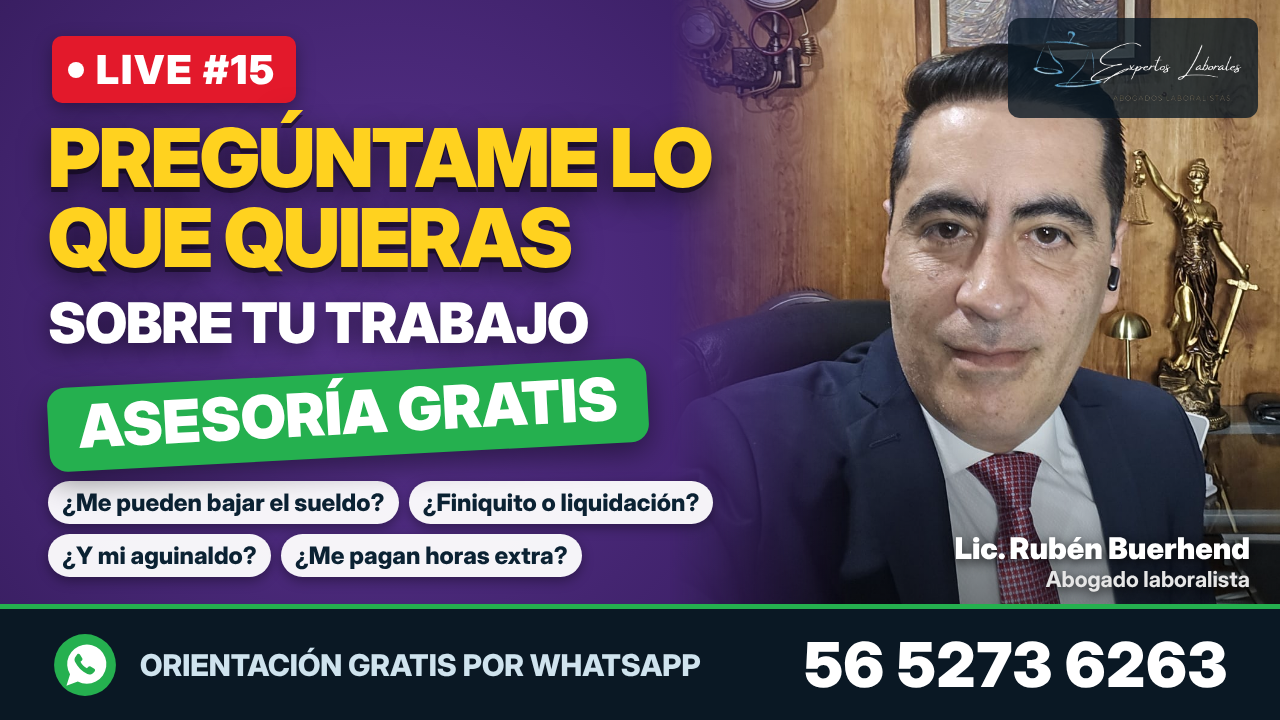
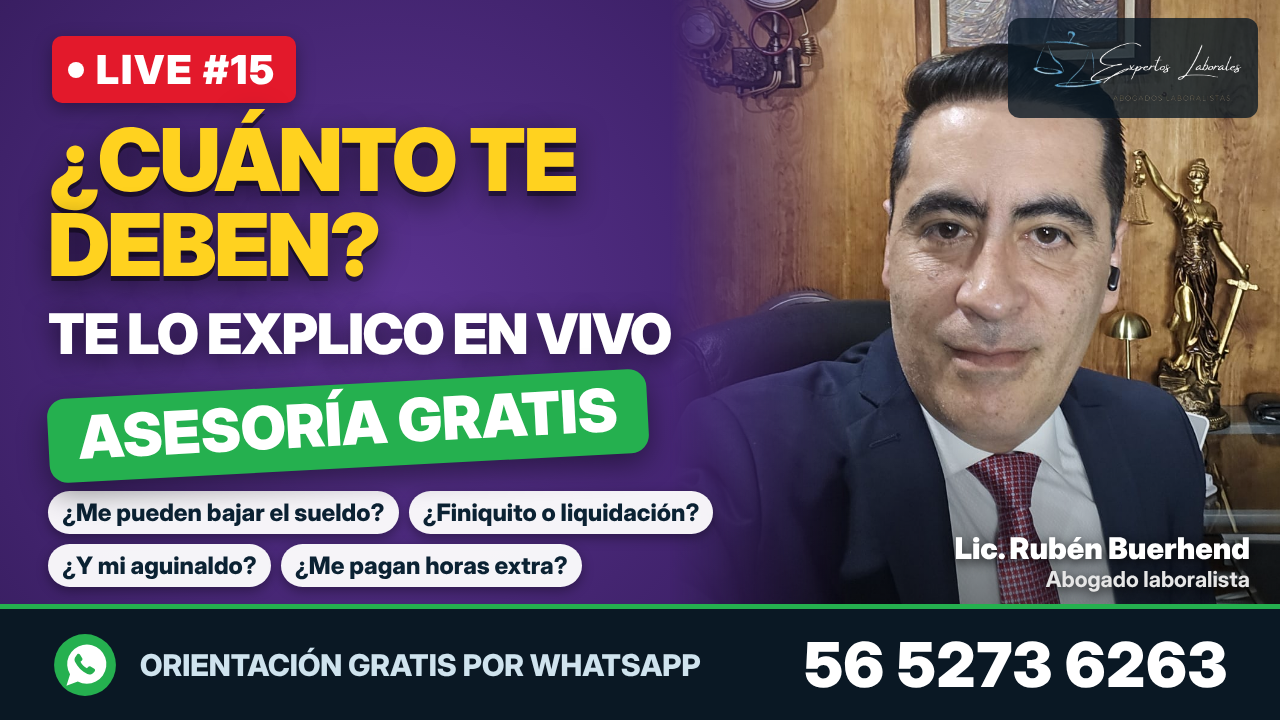
Miniatura LIVE #15: ¿CUÁNTO TE DEBEN?
Claude-Session: https://claude.ai/code/session_01C3deJav44xscTHSyeunJhm

Changed region(s): [[0.0312, 0.1528, 0.5625, 0.825]]

diff --git a/CLAUDE.md b/CLAUDE.md
@@ -99,7 +99,7 @@ documento $49 / curso $299) → se volvieron juicio.
   el usuario avisa cada vez que sube un video -> correr
   `cd marketing/miniaturas && node generar_serie_lives.js "$(pwd)" N`,
   mandarle `live_N.png`, y anotar el video en `registro.json` ("video").**
-  Entregadas #1-#15 (el usuario tenía ~15 lives listos para subir). Foto nueva 'gris' (selfie traje gris-azul, corbata azul, `ruben_selfie_traje_gris_derecha.jpg`, 18 nov 2026, pedido del usuario) -- la #11 se rehízo con ella (versión volteada); desde la #12 el usuario la pidió en el sentido ORIGINAL de la cámara (`ruben_selfie_traje_gris.jpg`) porque la volteada se le veía rara -- por eso redibujar la #11 hoy ya no sale idéntica. 18 nov: el usuario pidió no repetir frases -- se agregaron 5 frases nuevas (índices 3-7) y la #12 usa "CONOCE TUS DERECHOS". 20 nov: foto nueva gris2 (traje gris, corbata gris, `ruben_selfie_traje_gris2.jpg`, sin voltear) y la #13 usa "DEFIENDE TU TRABAJO" (al usuario no le gustó "¿TE CORRIERON?"). Foto nueva lila (traje negro, corbata lila, `ruben_selfie_corbata_lila.jpg`, sin voltear) en la #14 con frase "NO TE DEJES" (la eligió el usuario de una hoja de 5 opciones -- mejor mostrar opciones que adivinar; rechazó "¿TU PATRÓN NO TE PAGA?" y "TRABAJADOR, NO ESTÁS SOLO"). Frases disponibles: índices 0-12. El generador elige los componentes MENOS usados y evita repetir color/foto/frase/preguntas con los 2 lives anteriores (la 1a versión solo alternaba azul/rojo, corregido).
+  Entregadas #1-#15 (el usuario tenía ~15 lives listos para subir). Foto nueva 'gris' (selfie traje gris-azul, corbata azul, `ruben_selfie_traje_gris_derecha.jpg`, 18 nov 2026, pedido del usuario) -- la #11 se rehízo con ella (versión volteada); desde la #12 el usuario la pidió en el sentido ORIGINAL de la cámara (`ruben_selfie_traje_gris.jpg`) porque la volteada se le veía rara -- por eso redibujar la #11 hoy ya no sale idéntica. 18 nov: el usuario pidió no repetir frases -- se agregaron 5 frases nuevas (índices 3-7) y la #12 usa "CONOCE TUS DERECHOS". 20 nov: foto nueva gris2 (traje gris, corbata gris, `ruben_selfie_traje_gris2.jpg`, sin voltear) y la #13 usa "DEFIENDE TU TRABAJO" (al usuario no le gustó "¿TE CORRIERON?"). Foto nueva lila (traje negro, corbata lila, `ruben_selfie_corbata_lila.jpg`, sin voltear) en la #14 con frase "NO TE DEJES" (la eligió el usuario de una hoja de 5 opciones -- mejor mostrar opciones que adivinar; rechazó "¿TU PATRÓN NO TE PAGA?" y "TRABAJADOR, NO ESTÁS SOLO"). La #15 (foto azul, morado) usa "¿CUÁNTO TE DEBEN?" (elegida de hoja de 6 opciones). Frases disponibles: índices 0-14; del #1-#11 se alternaron solo las frases 0-2. El generador elige los componentes MENOS usados y evita repetir color/foto/frase/preguntas con los 2 lives anteriores (la 1a versión solo alternaba azul/rojo, corregido).
 - **Métricas de redes** (YouTube/TikTok): `marketing/metricas_redes.md`,
   punto de partida 16 nov 2026 (YouTube @rubenbuerhend: 24 suscriptores, 3
   videos; TikTok: 104.1K seguidores). Agregar fila con cada captura nueva

diff --git a/marketing/miniaturas/registro.md b/marketing/miniaturas/registro.md
@@ -18,4 +18,4 @@ Cada combinación (color + frase + preguntas + foto) se usa una sola vez.
 | 12 | Naranja | CONOCE TUS DERECHOS | Juego 3 | gris | 2026-11-16 | (pendiente) |
 | 13 | Rojo | DEFIENDE TU TRABAJO | Juego 1 | gris2 | 2026-11-16 | (pendiente) |
 | 14 | Azul | NO TE DEJES | Juego 2 | lila | 2026-11-16 | (pendiente) |
-| 15 | Morado | PREGÚNTAME LO QUE QUIERAS | Juego 3 | azul | 2026-11-16 | (pendiente) |
+| 15 | Morado | ¿CUÁNTO TE DEBEN? | Juego 3 | azul | 2026-11-23 | (pendiente) |
